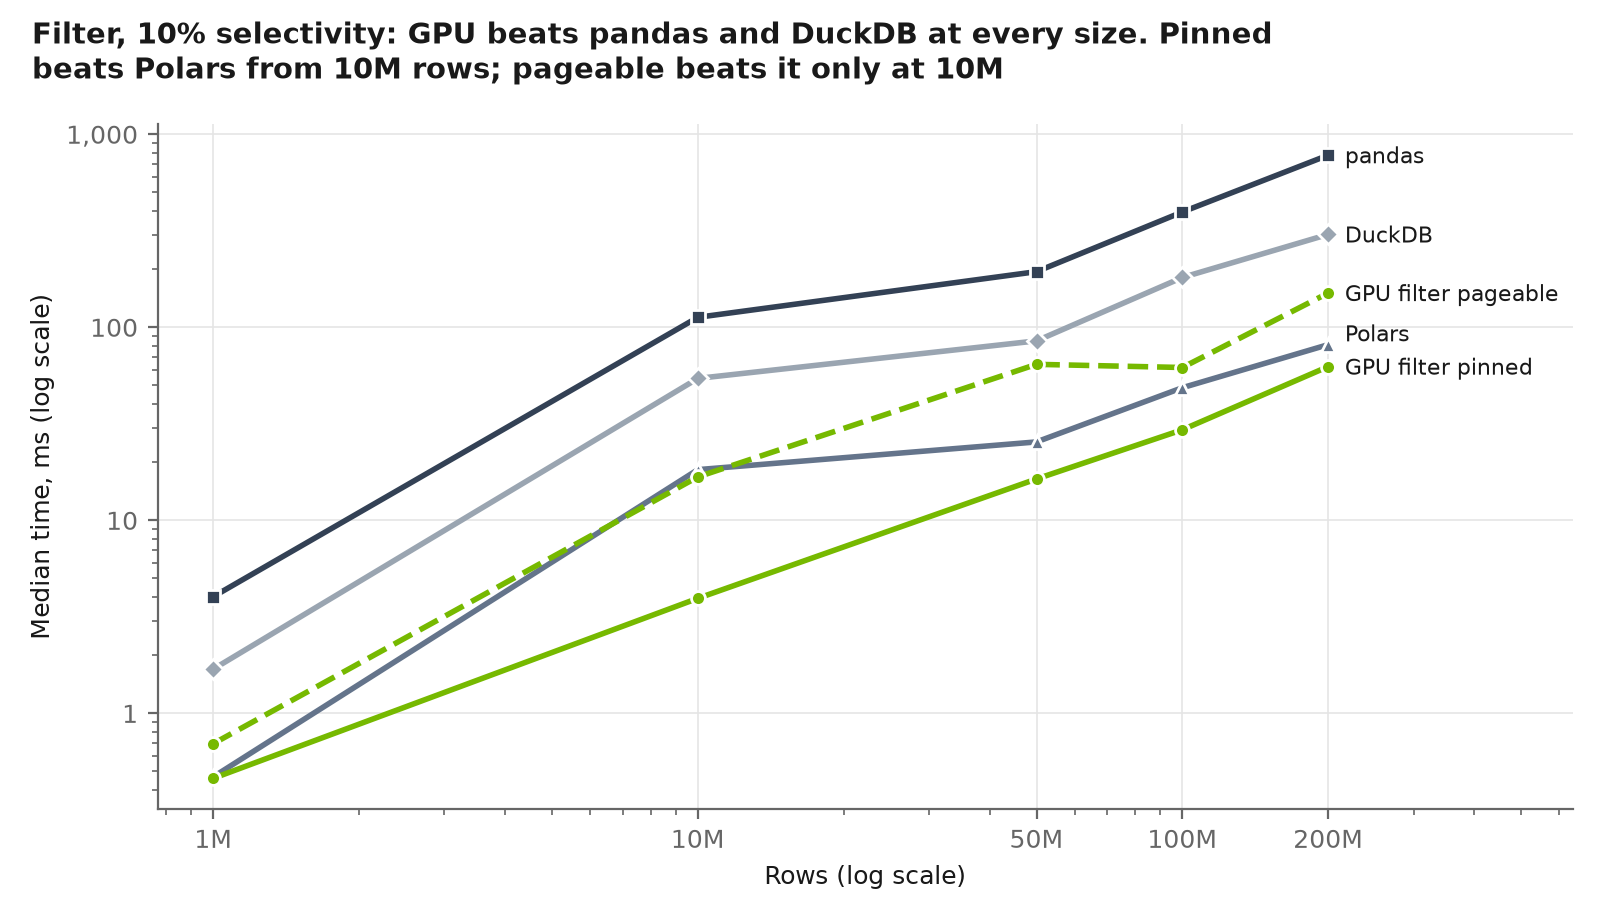
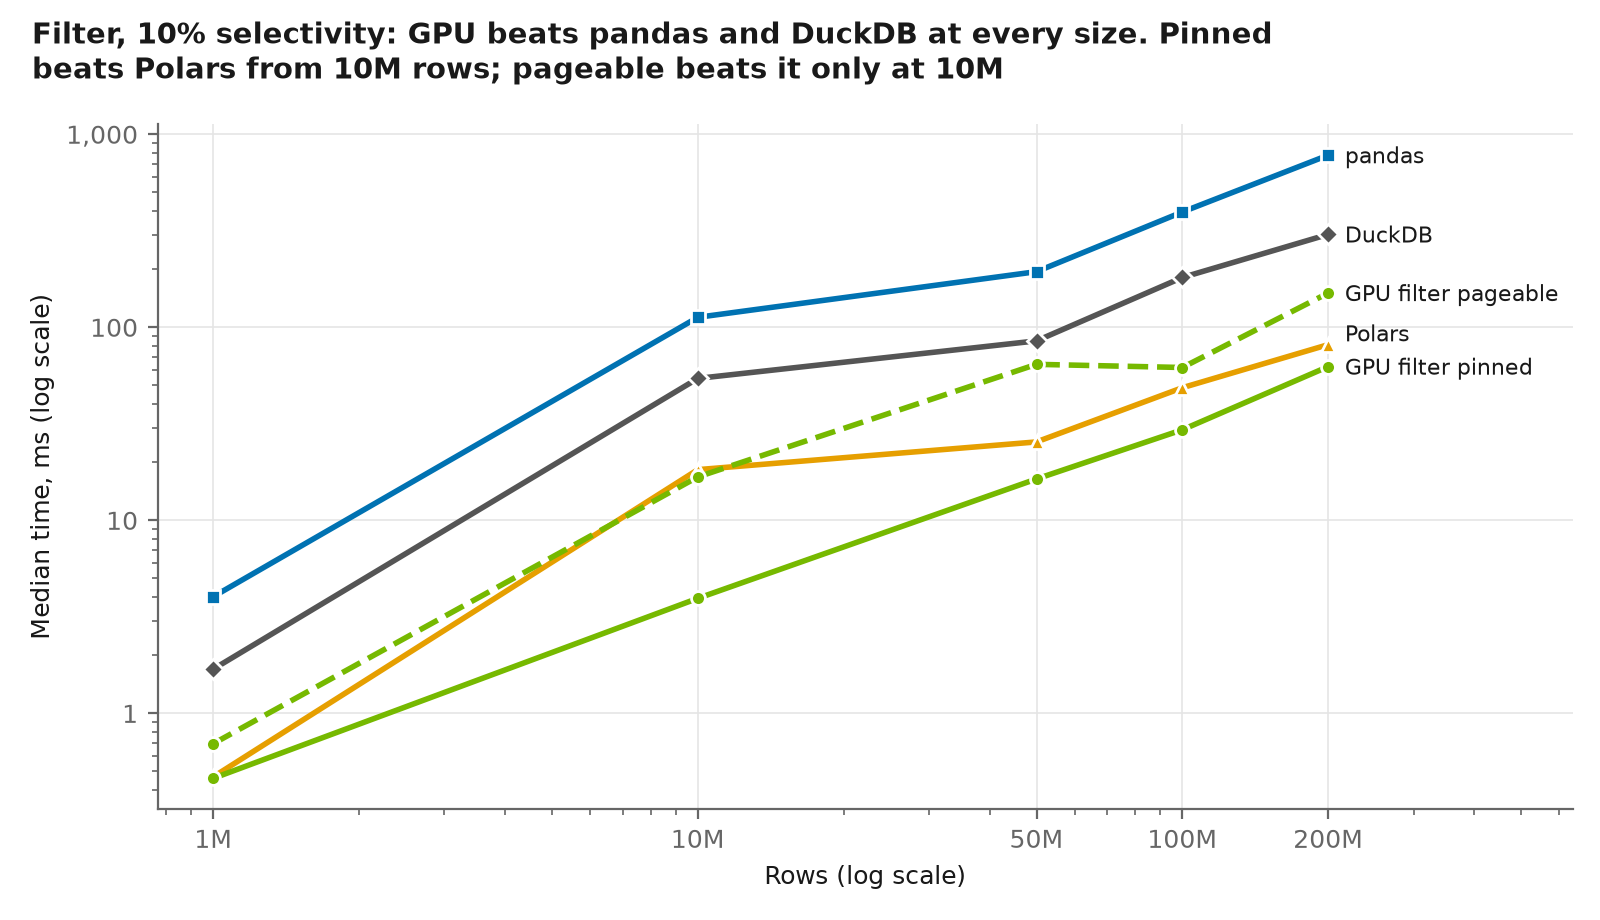
Make pandas and Polars chart colors distinct

diff --git a/benchmarks/plot.py b/benchmarks/plot.py
@@ -14,13 +14,12 @@ from matplotlib.ticker import FuncFormatter
 RESULTS = Path(__file__).parent / "results"
 FIGS = Path(__file__).parent.parent / "docs" / "figures"
 
-# One color per engine in every chart: GPU in NVIDIA green, CPU engines in three slate greys.
-# The validator passes colorblind and normal-vision separation on ALL pairs; greys fail its
-# chroma floor by design, so each CPU engine also gets its own marker shape.
+# One color per engine in every chart: pandas blue and Polars orange (colorblind-safe pair),
+# DuckDB dark grey, GPU in NVIDIA green. Each engine also gets its own marker shape.
 # All GPU lines share one color; dashed = GPU pageable or GPU global.
-COLOR = {"pandas": "#334155", "polars": "#64748b", "duckdb": "#9aa5b1", "gpu": "#76b900"}
+COLOR = {"pandas": "#0072B2", "polars": "#E69F00", "duckdb": "#555555", "gpu": "#76b900"}
 MARKER = {"pandas": "s", "polars": "^", "duckdb": "D", "gpu": "o"}
-COPY_GRAY = "#d4d4d4"  # not an engine: the copy part of a GPU bar, lighter than the CPU greys
+COPY_GRAY = "#d4d4d4"  # not an engine: the copy part of a GPU bar, much lighter than DuckDB grey
 TEXT, TEXT2, GRID = "#191919", "#666666", "#e5e5e5"
 LABEL = {"pandas": "pandas", "polars": "Polars", "duckdb": "DuckDB"}
 LABEL_GAP_PT = 12  # smallest vertical distance between two end labels
